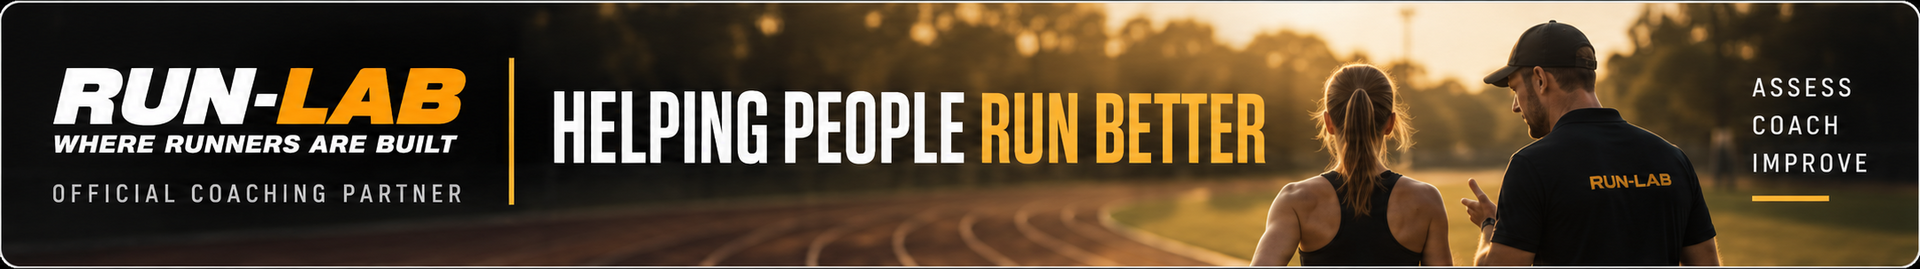
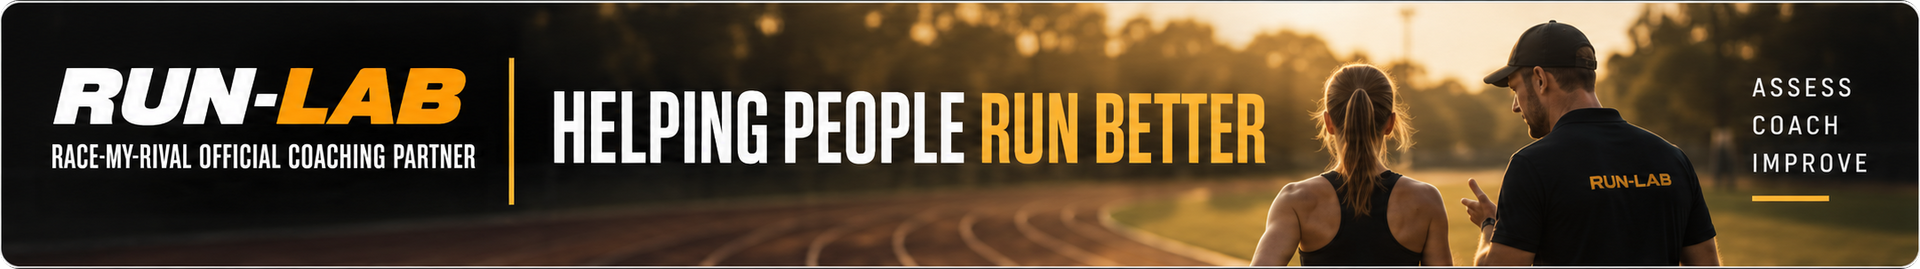
Update Run-Lab campaign creatives
Replace the outdated banner set with six simplified creatives and update viewport-based placement mappings and documentation. Hide the side banner on smaller screens and adjust campaign tests for the new assets.

diff --git a/src/partners/campaigns.ts b/src/partners/campaigns.ts
@@ -21,11 +21,10 @@ export const RUN_LAB_CAMPAIGN: PartnerCampaign = {
       destinationUrl: RUN_LAB_DESTINATION,
       altText: "Run-Lab — Helping people run better",
       accessibleLabel: "Visit Run-Lab coaching partner website",
+      // 3 creatives: portrait / landscape / wide (tablet + desktop)
       assetsByMaxWidth: [
         { maxWidth: 599, src: "/partners/run-lab/top/run-lab-banner-mobile-portrait-430.png" },
         { maxWidth: 899, src: "/partners/run-lab/top/run-lab-banner-mobile-landscape-844.png" },
-        { maxWidth: 1199, src: "/partners/run-lab/top/run-lab-banner-tablet-portrait-1024.png" },
-        { maxWidth: 1599, src: "/partners/run-lab/top/run-lab-banner-tablet-landscape-1366.png" },
         { maxWidth: Number.POSITIVE_INFINITY, src: "/partners/run-lab/top/run-lab-banner-desktop-1920.png" },
       ],
     },
@@ -33,10 +32,9 @@ export const RUN_LAB_CAMPAIGN: PartnerCampaign = {
       destinationUrl: RUN_LAB_DESTINATION,
       altText: "Run-Lab — better movement, better performance",
       accessibleLabel: "Discover Run-Lab",
+      // Desktop skyscraper only — PartnerShell hides this slot below lg.
       desktopAsset: "/partners/run-lab/side/run-lab-side-banner-desktop-portrait.png",
-      mobileAsset: "/partners/run-lab/side/run-lab-side-banner-iphone-portrait.png",
       assetsByMaxWidth: [
-        { maxWidth: 767, src: "/partners/run-lab/side/run-lab-side-banner-iphone-portrait.png" },
         { maxWidth: Number.POSITIVE_INFINITY, src: "/partners/run-lab/side/run-lab-side-banner-desktop-portrait.png" },
       ],
     },
@@ -44,12 +42,10 @@ export const RUN_LAB_CAMPAIGN: PartnerCampaign = {
       destinationUrl: RUN_LAB_DESTINATION,
       altText: "Run-Lab — Running is a skill. Visit running-coach.uk",
       accessibleLabel: "Visit running-coach.uk",
+      // Compact = mobile portrait / narrow; Wide = landscape + tablet + desktop
       assetsByMaxWidth: [
-        { maxWidth: 599, src: "/partners/run-lab/bottom/run-lab-bottom-mobile-portrait-430x360.webp" },
-        { maxWidth: 899, src: "/partners/run-lab/bottom/run-lab-bottom-mobile-landscape-844x260.webp" },
-        { maxWidth: 1199, src: "/partners/run-lab/bottom/run-lab-bottom-tablet-portrait-1024x300.webp" },
-        { maxWidth: 1599, src: "/partners/run-lab/bottom/run-lab-bottom-tablet-landscape-1366x280.webp" },
-        { maxWidth: Number.POSITIVE_INFINITY, src: "/partners/run-lab/bottom/run-lab-bottom-desktop-1920x320.webp" },
+        { maxWidth: 599, src: "/partners/run-lab/bottom/run-lab-bottom-compact.png" },
+        { maxWidth: Number.POSITIVE_INFINITY, src: "/partners/run-lab/bottom/run-lab-bottom-wide.png" },
       ],
     },
     socialCard: {

diff --git a/tests/partners/campaigns.test.ts b/tests/partners/campaigns.test.ts
@@ -24,11 +24,11 @@ describe("partner campaigns", () => {
     const lower = RUN_LAB_CAMPAIGN.placements.lower!;
     expect(pickPlacementAsset(top, 390)).toContain("mobile-portrait");
     expect(pickPlacementAsset(top, 800)).toContain("mobile-landscape");
-    // Content column (~1186) must not drive selection — typical desktop viewport wins desktop creatives.
-    expect(pickPlacementAsset(top, 1280)).toContain("tablet-landscape");
+    expect(pickPlacementAsset(top, 1024)).toContain("desktop-1920");
     expect(pickPlacementAsset(top, 1920)).toContain("desktop-1920");
-    expect(pickPlacementAsset(lower, 1280)).toContain("tablet-landscape");
-    expect(pickPlacementAsset(lower, 1920)).toContain("desktop-1920");
+    expect(pickPlacementAsset(lower, 390)).toContain("bottom-compact");
+    expect(pickPlacementAsset(lower, 800)).toContain("bottom-wide");
+    expect(pickPlacementAsset(lower, 1920)).toContain("bottom-wide");
   });
 
   it("exposes picture sources with mobile portrait first and desktop as fallback", () => {
@@ -37,6 +37,12 @@ describe("partner campaigns", () => {
     expect(top!.sources[0]?.src).toContain("mobile-portrait");
     expect(top!.sources[0]?.maxWidth).toBe(599);
     expect(top!.fallbackSrc).toContain("desktop-1920");
+
+    const lower = placementPictureSources(RUN_LAB_CAMPAIGN.placements.lower!);
+    expect(lower!.sources).toEqual([
+      { maxWidth: 599, src: "/partners/run-lab/bottom/run-lab-bottom-compact.png" },
+    ]);
+    expect(lower!.fallbackSrc).toContain("bottom-wide");
   });
 
   it("allowlists partner destinations", () => {

diff --git a/src/components/PartnerShell.tsx b/src/components/PartnerShell.tsx
@@ -44,7 +44,7 @@ export function PartnerShell({
             campaign={campaign}
             slot="side"
             placement={side}
-            className="rounded-xl"
+            className="hidden rounded-xl lg:block"
           />
         ) : null}
       </div>

diff --git a/docs/rmr-v2/partner-assets.md b/docs/rmr-v2/partner-assets.md
@@ -1,78 +1,51 @@
 # Race My Rival V2 — Partner Assets
 
-Inventory of Marcelo’s Run-Lab advertising pack (updated 16 November 2026) and the placement mapping used for V2.
+Inventory of the simplified Run-Lab advertising pack (6 creatives) and the placement mapping used for V2.
 
-**Source folder:** `RUN-LAB-Advertising-Banners` (client Downloads pack).  
+**Source folder:** `NEW_-_BANNERS.zip` (client Downloads pack).  
 **Destination URL (all placements):** `https://running-coach.uk/`  
-**Selection rule:** choose artwork by **viewport width** (`window.innerWidth`), not device UA and not the capped advert container (~1250px). Do not stretch or cover-crop.
+**Selection rule:** choose artwork by **viewport width** (`window.innerWidth` / `<picture>` media), not device UA and not the capped advert container (~1250px). Do not stretch or cover-crop.
 
-Suggested width bands (from supplier README; adjust to live layout):
+Suggested width bands:
 
-| Band | Width |
-|------|-------|
-| Mobile portrait | &lt; 600px |
-| Mobile landscape | 600–899px |
-| Tablet portrait | 900–1199px |
-| Tablet landscape | 1200–1599px |
-| Desktop | ≥ 1600px |
+| Band | Width | Top | Bottom |
+|------|-------|-----|--------|
+| Compact / mobile portrait | ≤ 599px | Mobile portrait | Compact (stacked) |
+| Mobile landscape | 600–899px | Mobile landscape | Wide |
+| Wide (tablet + desktop) | ≥ 900px | Desktop | Wide |
 
-Use WebP for bottom banners on the web; keep PNG as lossless reference.
+## Inventory (6 creatives)
 
-## Inventory
+### Top (3)
 
-### 01 — Top banners
+| Filename | Size | Aspect | Alpha | Placement |
+|----------|------|--------|-------|-----------|
+| `top/run-lab-banner-mobile-portrait-430.png` | 1254×1254 | 1:1 | Yes | Top — compact / mobile portrait |
+| `top/run-lab-banner-mobile-landscape-844.png` | 2172×724 | ~3:1 | No | Top — mobile landscape |
+| `top/run-lab-banner-desktop-1920.png` | 1920×269 | ~7.14:1 | Yes | Top — tablet + desktop |
 
-| Filename | Type | Size | Aspect | Alpha | Likely placement |
-|----------|------|------|--------|-------|------------------|
-| `run-lab-banner-desktop-1920.png` | PNG | 1920×269 | ~7.14:1 | No | Top — desktop |
-| `run-lab-banner-tablet-landscape-1366.png` | PNG | 1366×204 | ~6.70:1 | No | Top — tablet landscape |
-| `run-lab-banner-tablet-portrait-1024.png` | PNG | 1024×183 | ~5.60:1 | No | Top — tablet portrait |
-| `run-lab-banner-mobile-landscape-844.png` | PNG | 844×155 | ~5.45:1 | No | Top — mobile landscape |
-| `run-lab-banner-mobile-portrait-430.png` | PNG | 1254×1254 | 1:1 | Yes | Top — mobile portrait (square; filename kept for config stability) |
+### Side (1)
 
-### 02 — Side banners
+| Filename | Size | Aspect | Alpha | Placement |
+|----------|------|--------|-------|-----------|
+| `side/run-lab-side-banner-desktop-portrait.png` | 1024×1536 | ~0.67:1 | No | Side skyscraper — `lg+` only |
 
-| Filename | Type | Size | Aspect | Alpha | Likely placement |
-|----------|------|------|--------|-------|------------------|
-| `run-lab-side-banner-desktop-landscape.png` | PNG | 1968×799 | ~2.46:1 | No | Side / wide |
-| `run-lab-side-banner-desktop-portrait.png` | PNG | 1024×1536 | ~0.67:1 | No | Side skyscraper — desktop |
-| `run-lab-side-banner-tablet-landscape.png` | PNG | 1672×941 | ~1.78:1 | No | Side — tablet landscape |
-| `run-lab-side-banner-tablet-portrait.png` | PNG | 1024×1536 | ~0.67:1 | No | Side / inline — tablet |
-| `run-lab-side-banner-iphone-landscape.png` | PNG | 1851×849 | ~2.18:1 | No | Inline below race — mobile landscape |
-| `run-lab-side-banner-iphone-portrait.png` | PNG | 941×1672 | ~0.56:1 | No | Inline below race — mobile portrait |
+### Bottom (2)
 
-### 03 — Bottom banners
+| Filename | Size | Aspect | Alpha | Placement |
+|----------|------|--------|-------|-----------|
+| `bottom/run-lab-bottom-compact.png` | 1374×1145 | ~1.2:1 | No | Lower — mobile portrait / narrow |
+| `bottom/run-lab-bottom-wide.png` | 2172×724 | ~3:1 | No | Lower — landscape + tablet + desktop |
 
-| Filename | Type | Size | Aspect | Alpha | Likely placement |
-|----------|------|------|--------|-------|------------------|
-| `run-lab-bottom-desktop-1920x320.webp` (+ PNG) | WebP/PNG | 1920×320 | 6:1 | No | Lower — desktop |
-| `run-lab-bottom-tablet-landscape-1366x280.webp` (+ PNG) | WebP/PNG | 1366×280 | ~4.88:1 | No | Lower — tablet landscape |
-| `run-lab-bottom-tablet-portrait-1024x300.webp` (+ PNG) | WebP/PNG | 1024×300 | ~3.41:1 | No | Lower — tablet portrait |
-| `run-lab-bottom-mobile-landscape-844x260.webp` (+ PNG) | WebP/PNG | 844×260 | ~3.25:1 | No | Lower — mobile landscape |
-| `run-lab-bottom-mobile-portrait-430x360.webp` (+ PNG) | WebP/PNG | 430×360 | ~1.19:1 | No | Lower — mobile portrait |
+### Logo
 
-### 04 — Logo
+| Filename | Size | Aspect | Alpha | Placement |
+|----------|------|--------|-------|-----------|
+| `run-lab-official-hires-logo.png` | 1024×512 | 2:1 | Yes | Social-card attribution / optional mark |
 
-| Filename | Type | Size | Aspect | Alpha | Likely placement |
-|----------|------|------|--------|-------|------------------|
-| `run-lab-official-hires-logo.png` | PNG | 1024×512 | 2:1 | Yes | Social-card attribution / optional mark |
+## Placement notes
 
-## Placement mapping
-
-| V2 slot | Assets | Notes |
-|---------|--------|-------|
-| Top banner — desktop | Top desktop / tablet-landscape | Under RmR identity, above race |
-| Top banner — mobile | Top mobile portrait/landscape | Full width; avoid pushing race too far below fold |
-| Side panel — desktop | Side portrait skyscraper preferred | Beside track only when viewport has room |
-| Side → inline mobile | Side iPhone / tablet portrait | Move **below** the race; do not keep a narrow sidebar |
-| Lower banner | Bottom WebP set | Below primary interaction |
-| Shared social-card attribution | Text “Powered by Run-Lab” ± logo | Restrained; RmR remains primary |
-
-## Missing / gaps
-
-- No separate OG-sized (1200×630) Run-Lab background plate; social card will be generated by `next/og` with text attribution rather than a supplied composite.
-- Top mobile-portrait asset is square (1254×1254, RGBA); render at width 100% with auto height — do not force a short horizontal crop that clips branding. Keep container `overflow-hidden` + radius so corners match the creative. Prefer `<picture>` media queries so phones do not flash the desktop creative on first paint.
-
-## Copy into the app (Phase 6/7)
-
-Copy selected files into `public/partners/run-lab/` preserving role-based names. Race My Rival must remain the primary identity; Run-Lab is the partner/advertiser only.
+- Prefer `<picture>` media queries so phones do not flash the wide creative on first paint.
+- Keep container `overflow-hidden` + radius so square black corners outside baked white borders are clipped.
+- Side banner is desktop-only (`hidden lg:block`); no mobile side creative in this pack.
+- Race My Rival remains the primary identity; Run-Lab is the partner/advertiser only.

diff --git a/docs/rmr-v2/partner-campaigns.md b/docs/rmr-v2/partner-campaigns.md
@@ -12,9 +12,9 @@ Central typed campaigns live in `src/partners/campaigns.ts`.
 
 | Slot | Desktop | Mobile |
 |------|---------|--------|
-| top | Under RmR header | Full-width under header |
-| side | Beside race (≥ lg) | Below race column |
-| lower | Below primary race UI | Same |
+| top | Under RmR header (wide creative) | Portrait / landscape creatives |
+| side | Beside race (≥ lg) | Hidden (no mobile side creative) |
+| lower | Wide bottom creative | Compact on portrait; wide on landscape |
 | socialCard | OG attribution text | Same |
 
 ## No-campaign mode
